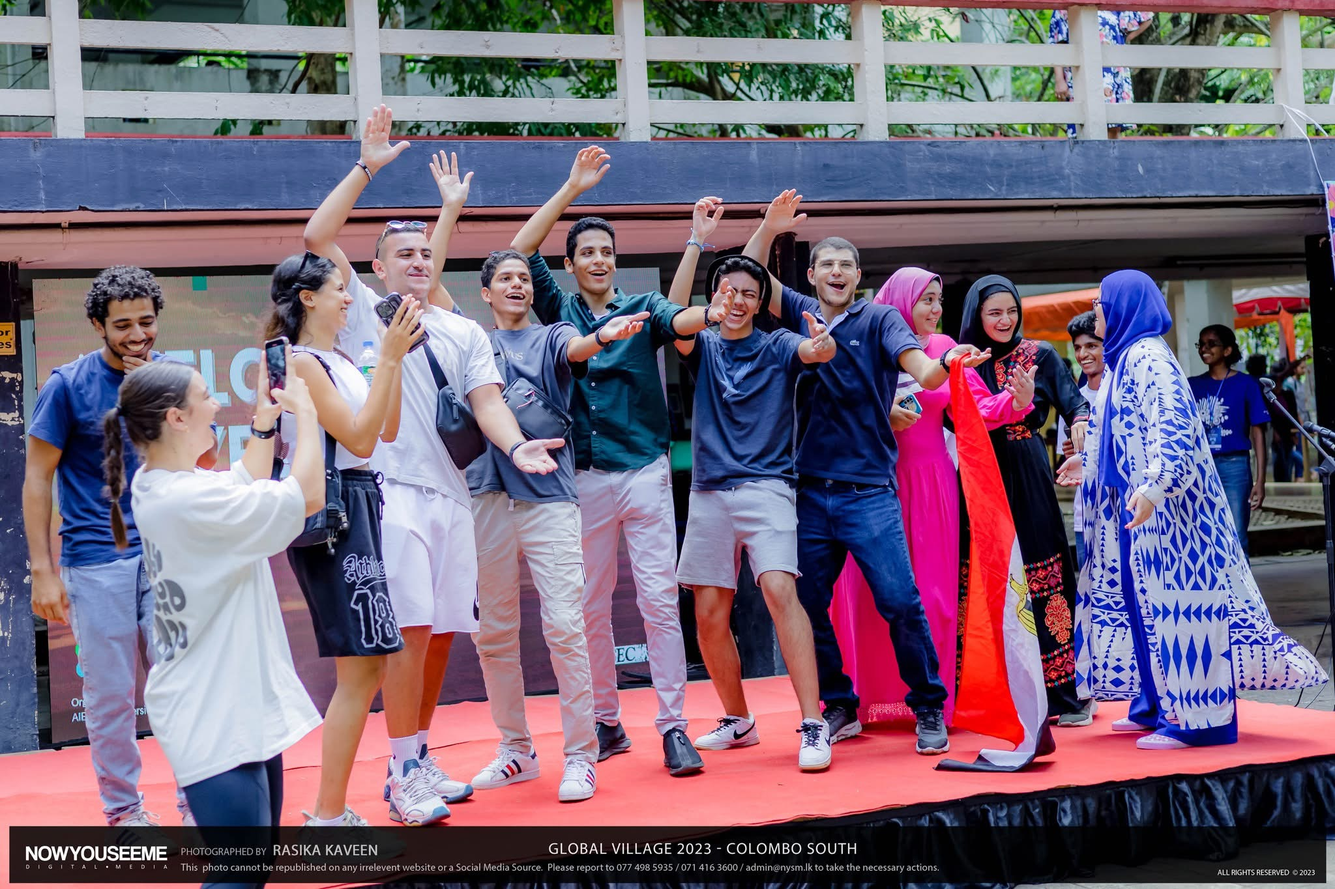
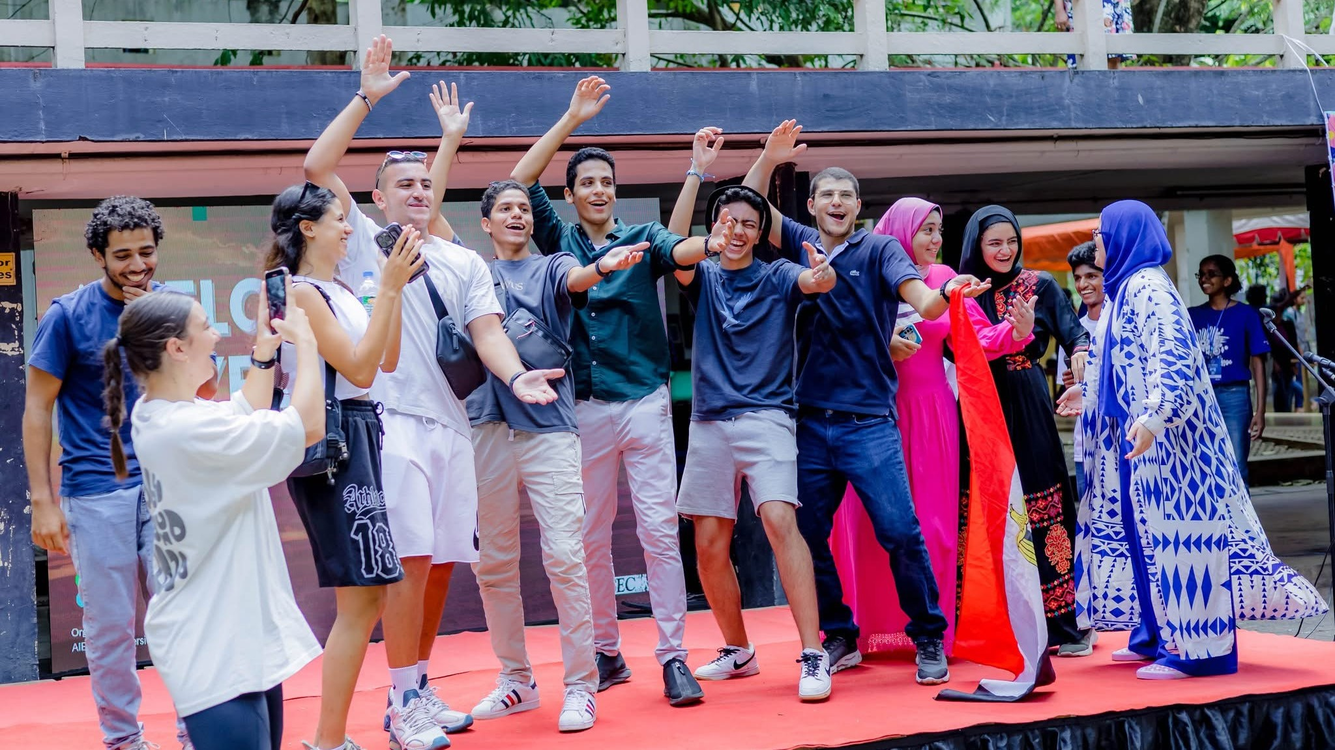
change image l

diff --git a/src/Components/Global_Village/Global_Village.jsx b/src/Components/Global_Village/Global_Village.jsx
@@ -1,6 +1,6 @@
 import React from 'react'
 import './Global_Village.css'
-import img1 from '../../assets/background/l.jpg'
+import img1 from '../../assets/background/q.jpg'
 import img2 from '../../assets/background/n.jpg'
 import img3 from '../../assets/background/y.jpg'
 const Global_Village = () => {
